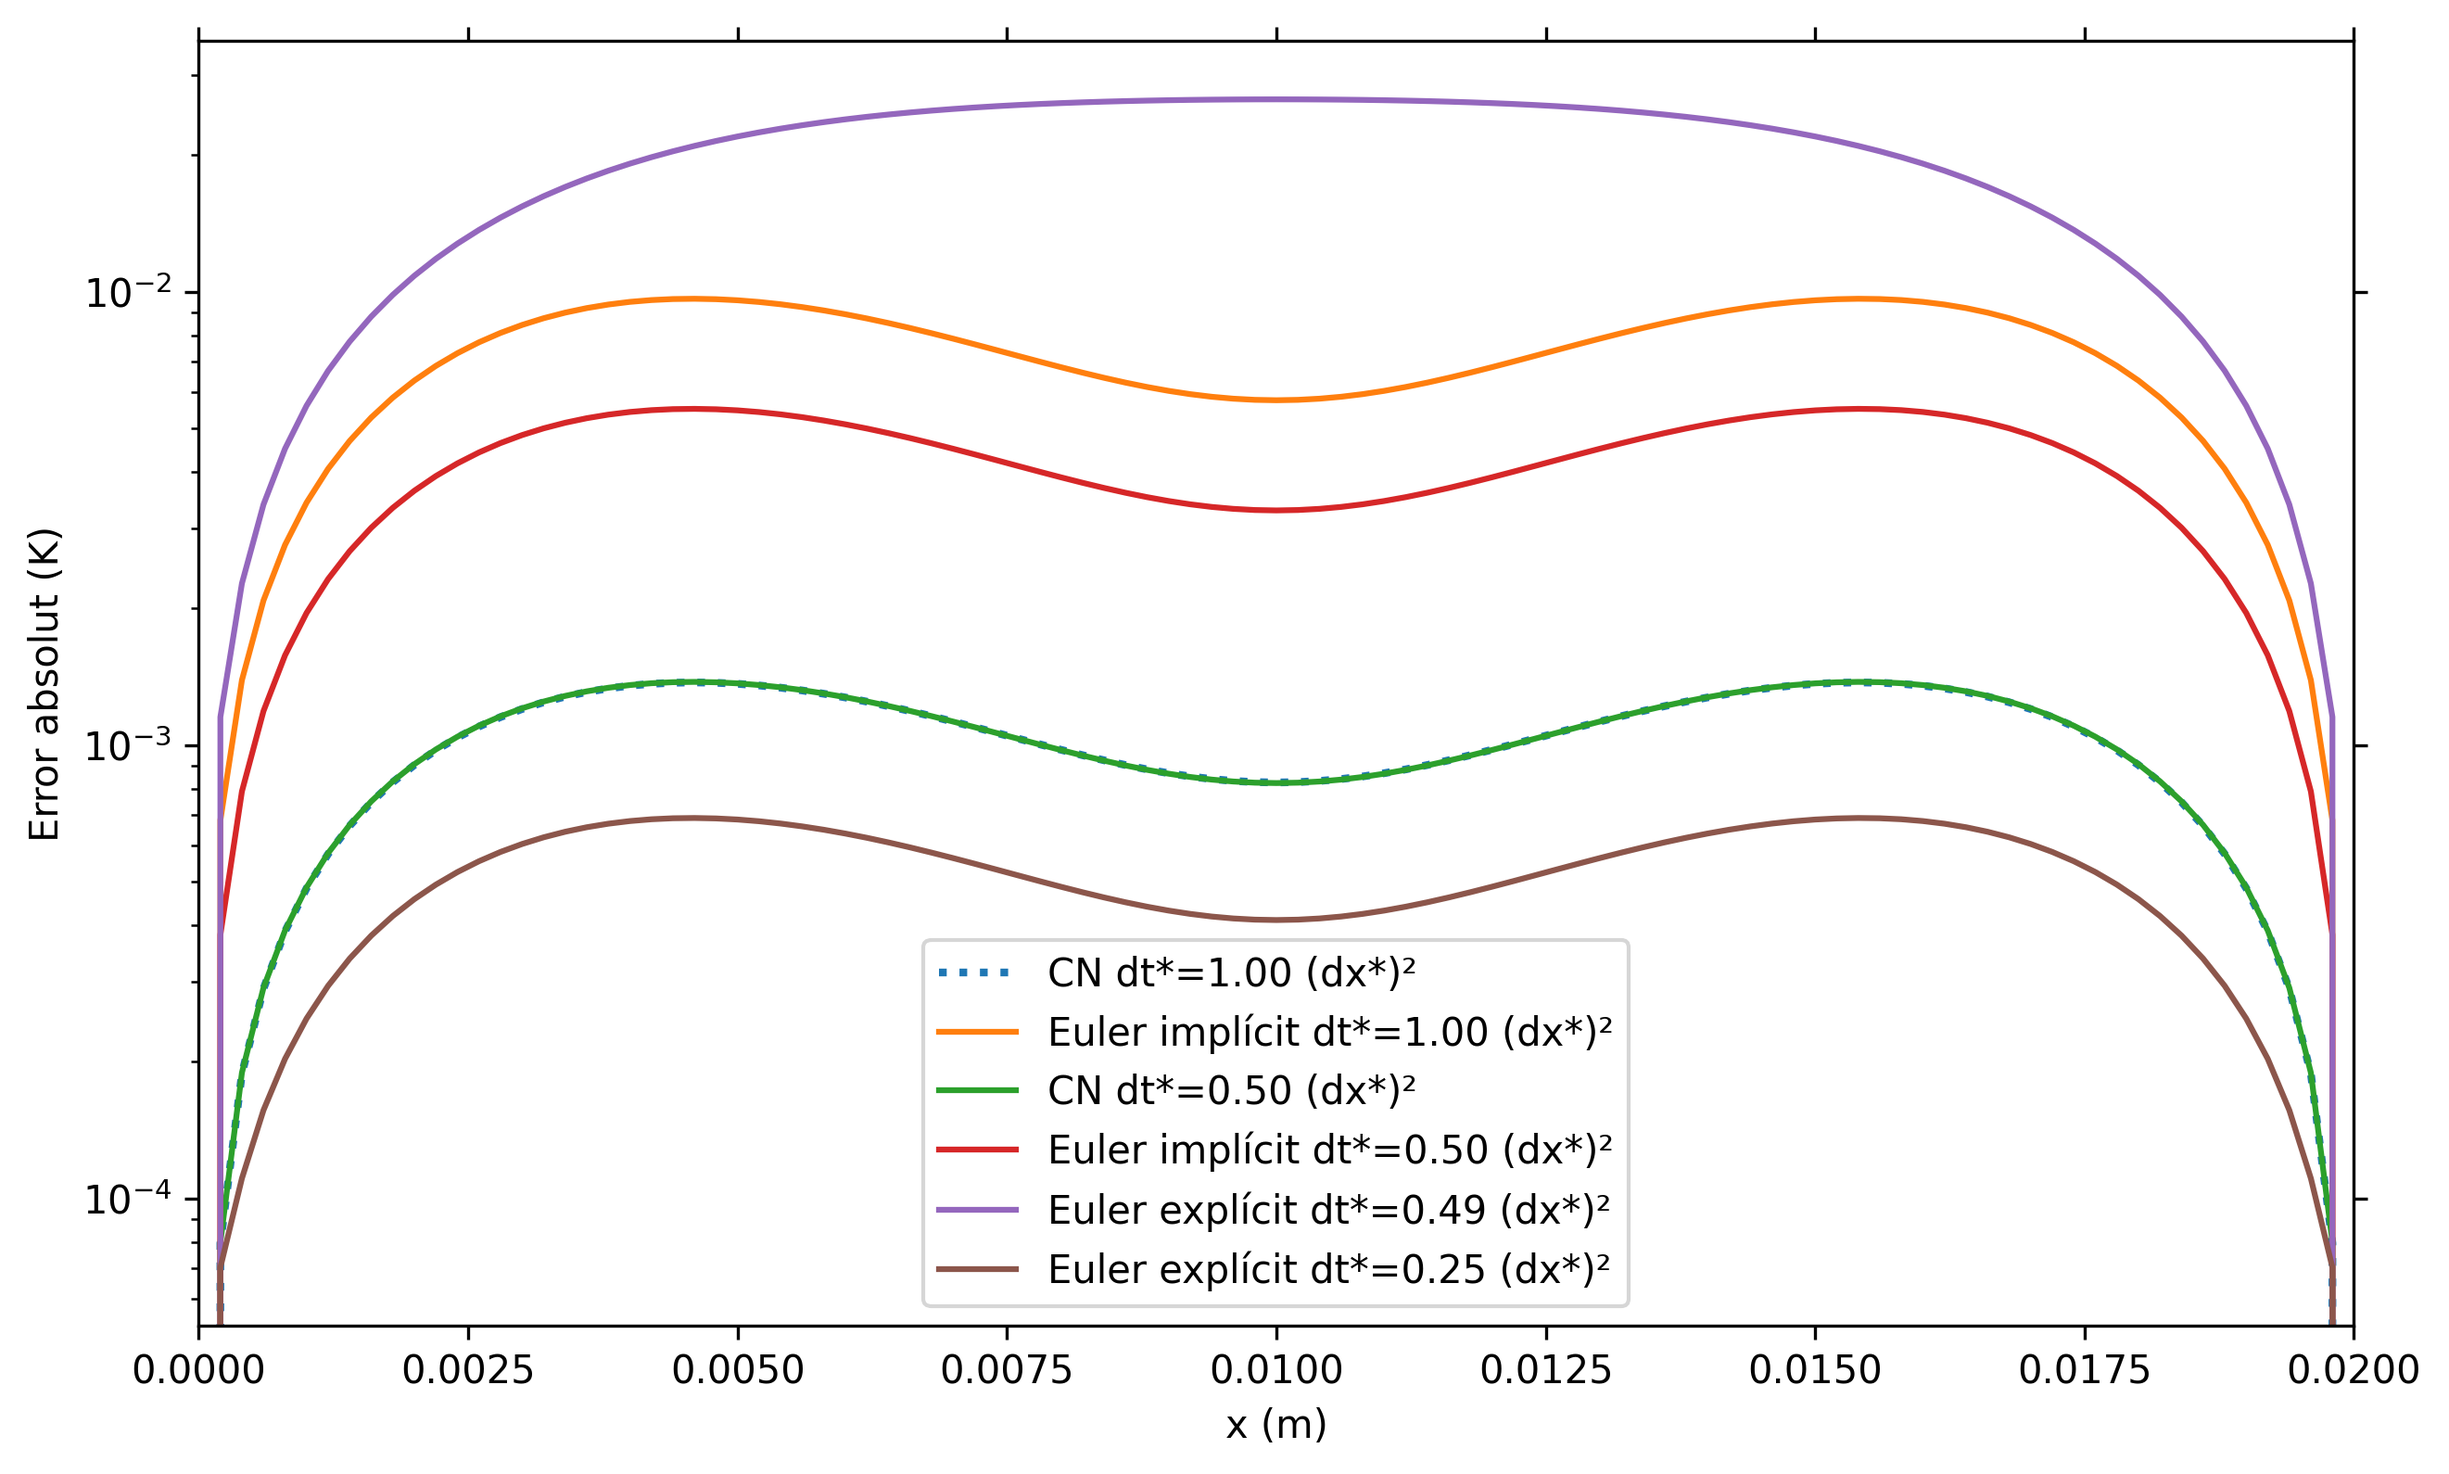
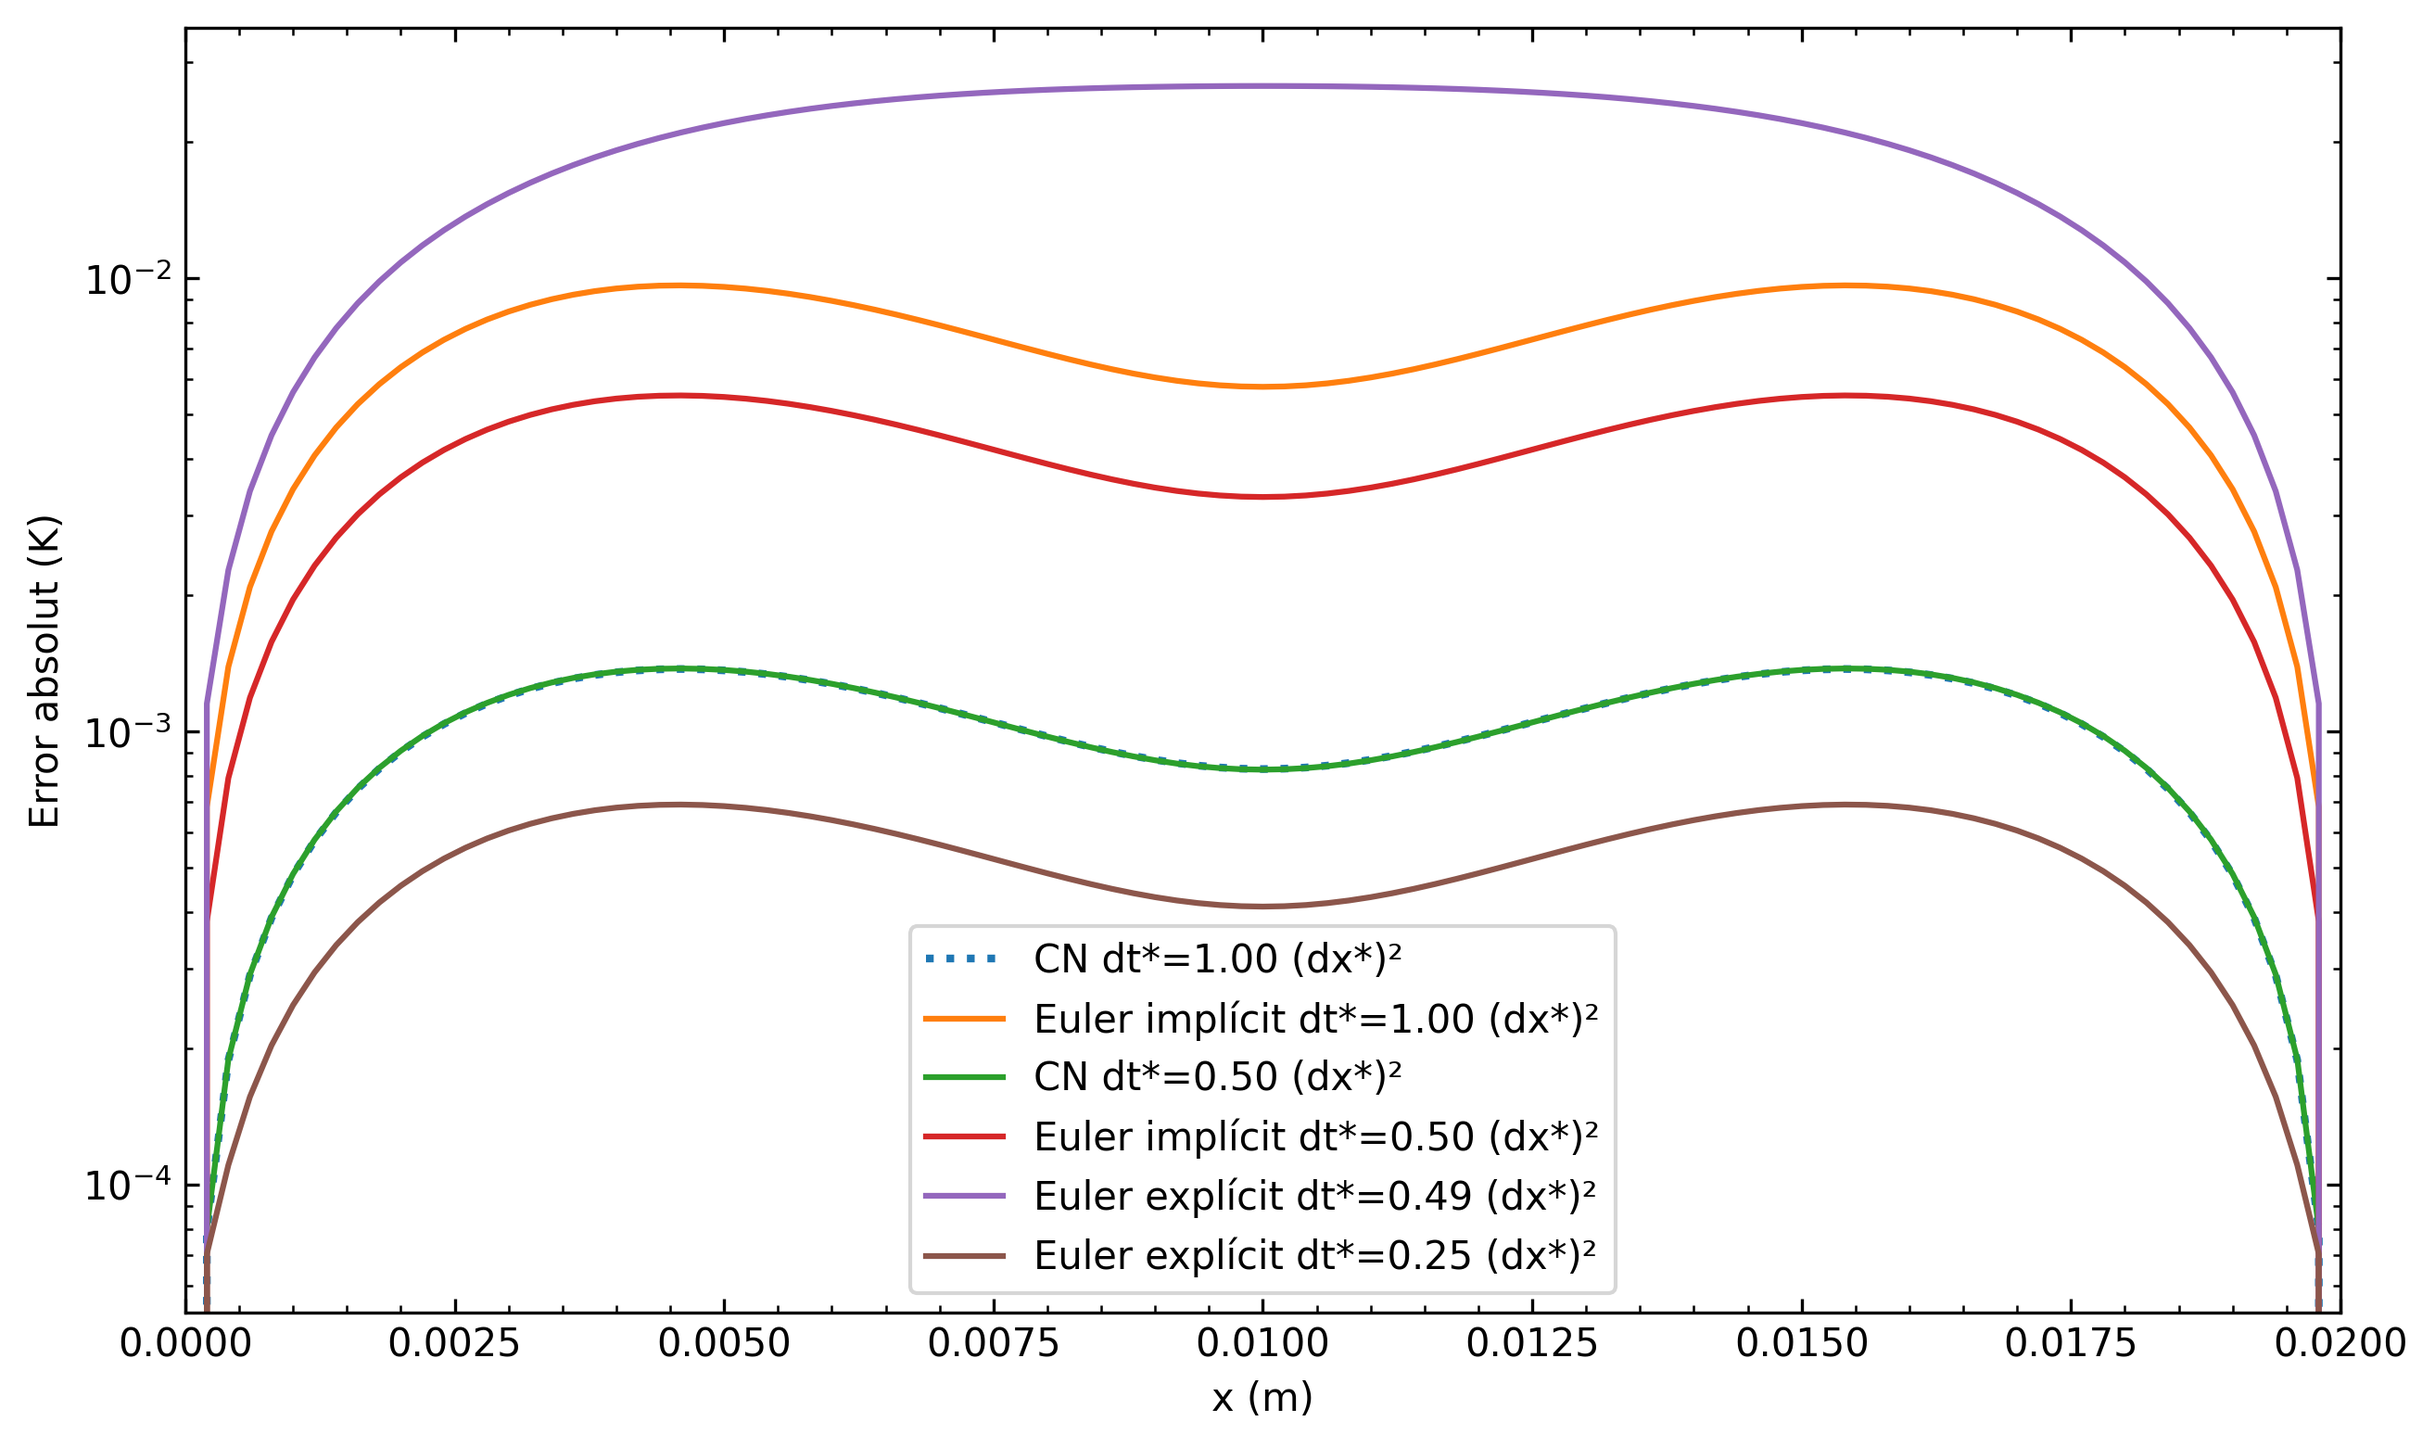
Add files via upload

diff --git a/ablacio_cardiaca_IVS/errors.py b/ablacio_cardiaca_IVS/errors.py
@@ -127,10 +127,11 @@ for label, err in results:
         plt.plot(x, err, label=label)
     print(f"{label} --> Error maxim = {np.max(err):.3e} K")
 plt.yscale('log')
+plt.minorticks_on()
 plt.xlabel('x (m)')
 plt.xlim(0, L)
 plt.ylabel('Error absolut (K)')
-plt.tick_params(direction="out", top=True, bottom=True, left=True, right=True)
+plt.tick_params(which='both',direction="in", top=True, bottom=True, left=True, right=True)
 plt.legend()
 plt.savefig("error_log.png", dpi=300, bbox_inches='tight')
 plt.close()
